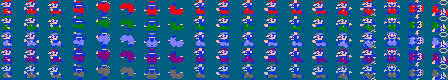
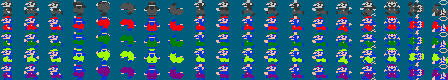
change images

diff --git a/src/view/MarioVista.cpp b/src/view/MarioVista.cpp
@@ -52,7 +52,7 @@ MarioVista::MarioVista(const MarioVista &other)
 }
 
 void MarioVista::setColor(size_t color) {
-    srcRect.y = (color + 4) % 5 * ALTO_MARIO;
+    srcRect.y = color * ALTO_MARIO;
 }
 
 void MarioVista::mostrar(const estadoMario_t &estadoMario) {
